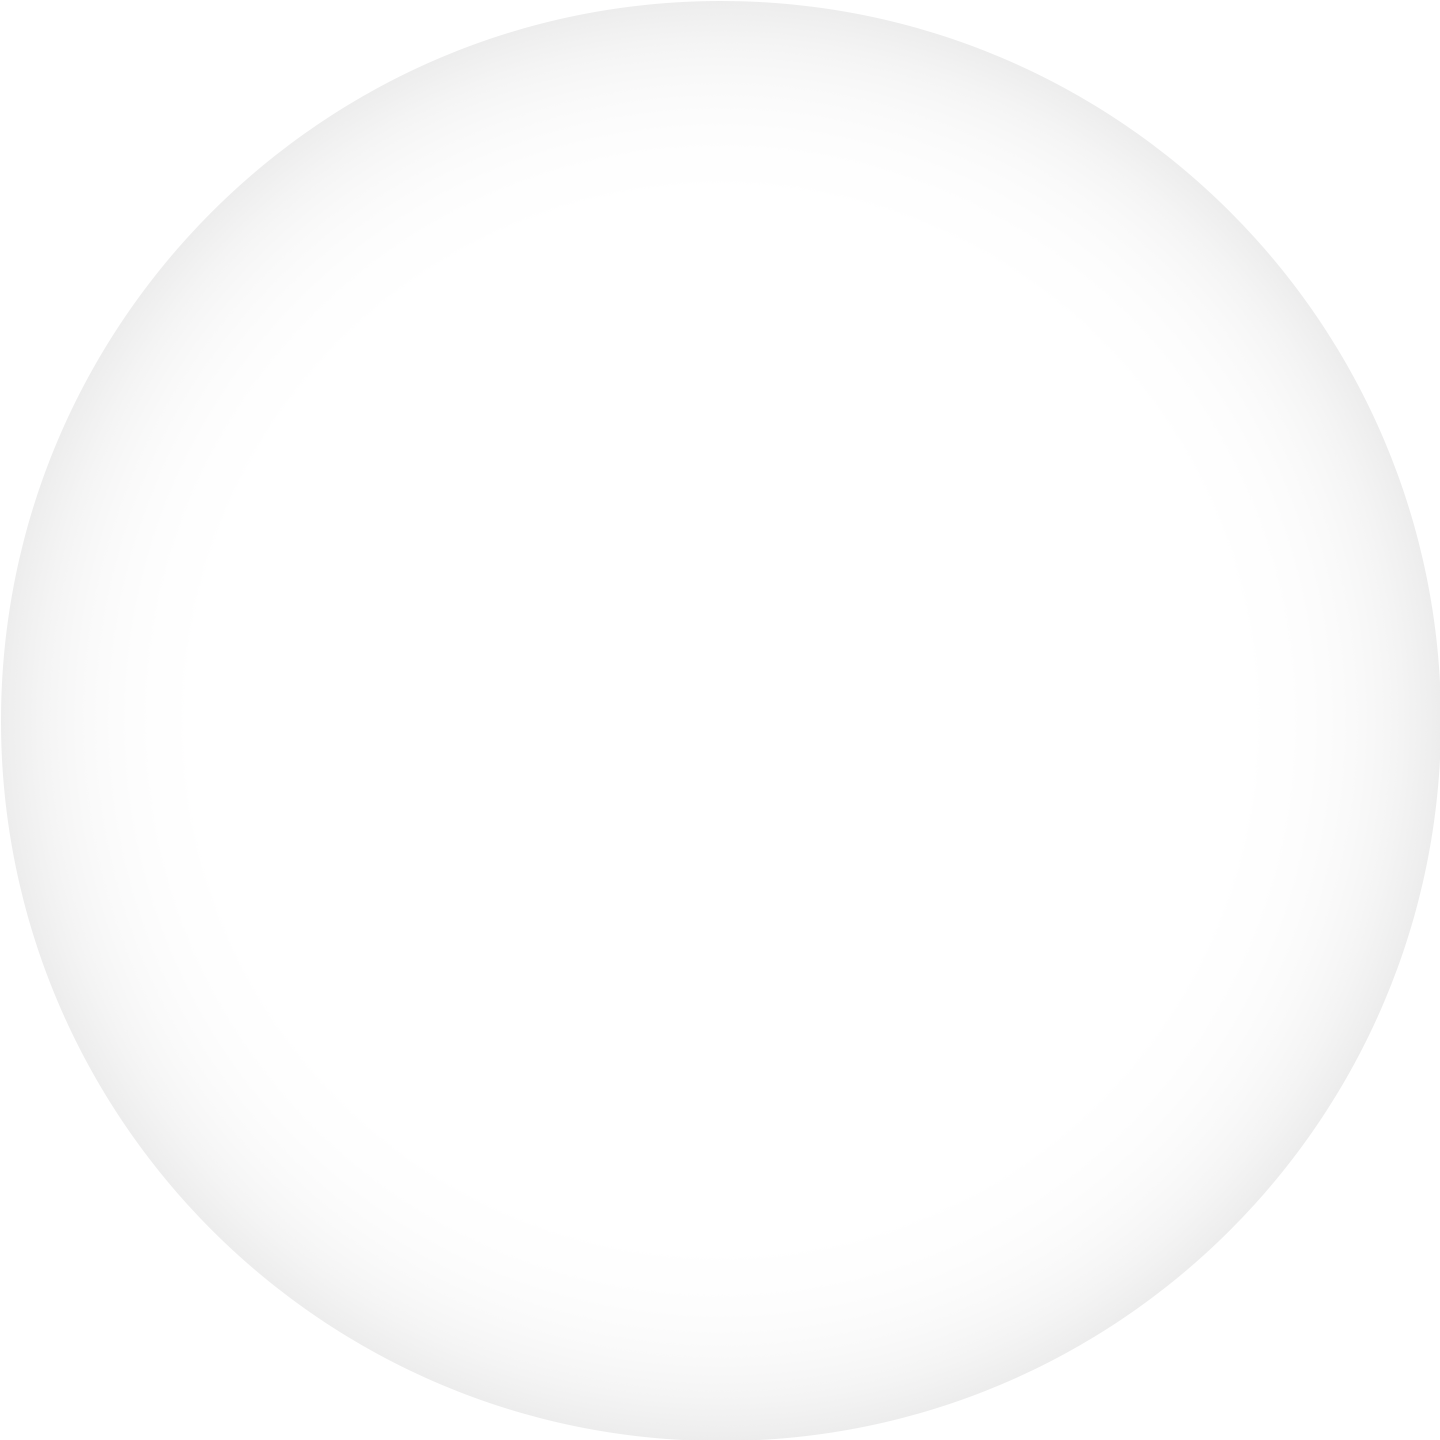
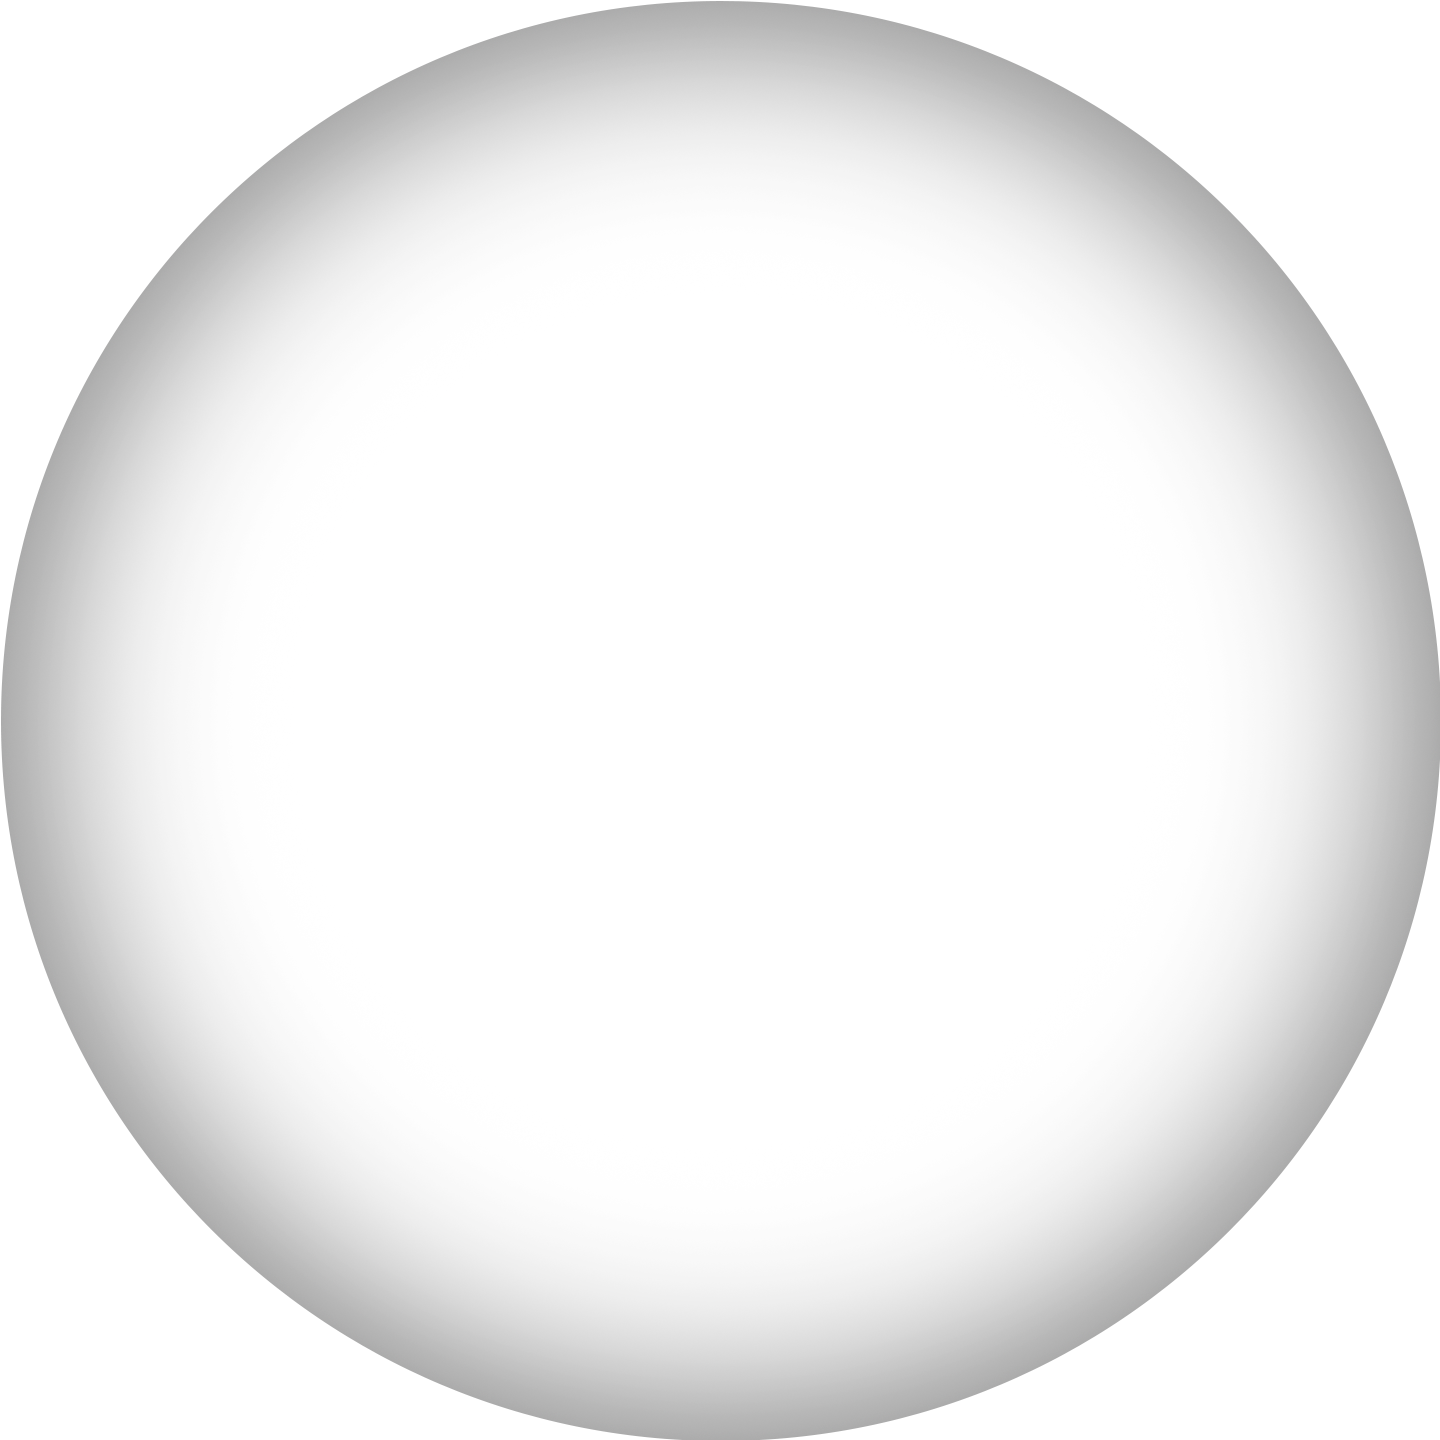
adjust shadow and glow

Changed region(s): [[0.0, 0.0, 1.0, 1.0]]

diff --git a/src/components/pixi/AnimatedPlanet.js b/src/components/pixi/AnimatedPlanet.js
@@ -3,7 +3,8 @@ import { Container, Graphics, Sprite, TilingSprite } from "pixi.js";
 
 export class AnimatedPlanet extends Container {
   #active = false
-  constructor({ texture, glowTexture, shadowTexture, revSpeed = 15, app, rotates }) {
+  #tween = null
+  constructor({ texture, glowTexture, shadowTexture, revSpeed = 5, app, rotates, angle = 45 }) {
     super()
     this.revSpeed = revSpeed
     this.rotates = rotates
@@ -11,8 +12,9 @@ export class AnimatedPlanet extends Container {
     this.y = app.renderer.screen.height / 2
     this.scale.set(0.2)
     this.alpha = 0
+    this.angle = angle
 
-    const glow = this.glow = new Sprite(glowTexture)
+    const glow = new Sprite(glowTexture)
     glow.width = 1480
     glow.height = 1480
     glow.anchor.set(0.5)
@@ -29,7 +31,7 @@ export class AnimatedPlanet extends Container {
     mask.fill({ color: 0xffffff })
     this.addChild(mask)
 
-    const shadow = this.shadow = new Sprite(shadowTexture)
+    const shadow = new Sprite(shadowTexture)
     shadow.width = 1440
     shadow.height = 1440
     shadow.anchor.set(0.5)
@@ -39,8 +41,8 @@ export class AnimatedPlanet extends Container {
     app.stage.addChild(this)
 
     this.tweener = 0
-    gsap.to(this, {
-      tweener: 1, duration: this.revSpeed, ease: 'none', repeat: -1, onUpdate: this.update
+    this.#tween = gsap.to(this, {
+      tweener: 1, duration: 1, ease: 'none', repeat: -1, paused: !this.rotates, onUpdate: this.update
     })
   }
 
@@ -48,6 +50,7 @@ export class AnimatedPlanet extends Container {
     return this.#active
   }
   set active(value) {
+    this.#tween.paused(!value && !this.rotates)
     this.#active = value
   }
 

diff --git a/src/hooks/pixi.hook.js b/src/hooks/pixi.hook.js
@@ -1,7 +1,7 @@
 import { Application } from "pixi.js"
 import { useCallback, useEffect, useRef } from "react"
 
-export const usePixiApp = ({ onReady, canvasRef, containerRef }) => {
+export const usePixiApp = ({ onReady, canvasRef, containerRef, width, height }) => {
   const app = useRef()
   const ticker = useRef()
 
@@ -11,12 +11,12 @@ export const usePixiApp = ({ onReady, canvasRef, containerRef }) => {
 
     const initPixi = async () => {
       // Initialize the application
-      await pixiApp.init({ resizeTo: container, canvas })
+      await pixiApp.init({ autoStart: false, width, height, canvas })
       app.current = pixiApp
       onReady(app)
     }
     initPixi()
-  }, [onReady])
+  }, [onReady, width, height])
 
   const updateTicker = useCallback((nextTicker) => {
     if (!app?.current || !nextTicker) return
@@ -27,8 +27,19 @@ export const usePixiApp = ({ onReady, canvasRef, containerRef }) => {
   }, [app, ticker]);
 
   useEffect(() => {
-    if (!canvasRef?.current || !containerRef?.current) return
-    init(canvasRef.current, containerRef.current)
+    if (app?.current?.renderer.context?.extensions) {
+      app.current.renderer.context.extensions.loseContext = null;
+    }
+    if (canvasRef?.current && containerRef?.current) {
+      init(canvasRef.current, containerRef.current)
+      return () => {
+        console.log('unmount!')
+        if (app?.current) {
+          app.current.destroy()
+          app.current = null
+        }
+      }
+    }
   }, [init, canvasRef, containerRef])
 
   return { app: app.current, updateTicker }

diff --git a/src/components/Stars.jsx b/src/components/Stars.jsx
@@ -144,10 +144,10 @@ export const Stars = ({ onInitialized }) => {
   }, [starState, stars, updateStar, warpSpeed]);
 
   const onReady = (appRef) => {
-    initStars(appRef.current);
+    //initStars(appRef.current);
     initPlanets(appRef.current);
   }
-  const { updateTicker } = usePixiApp({ canvasRef, containerRef, onReady })
+  const { updateTicker } = usePixiApp({ canvasRef, containerRef, onReady, width: 960, height: 540 })
 
   const ticker = useCallback((app) => (time) => {
     if (!time || !app) return
@@ -194,6 +194,7 @@ export const Stars = ({ onInitialized }) => {
 
       updateTicker(ticker(app));
       onInitialized(update);
+      app.start();
     }
     load()
   }, [updateTicker, ticker, onInitialized, update]);
